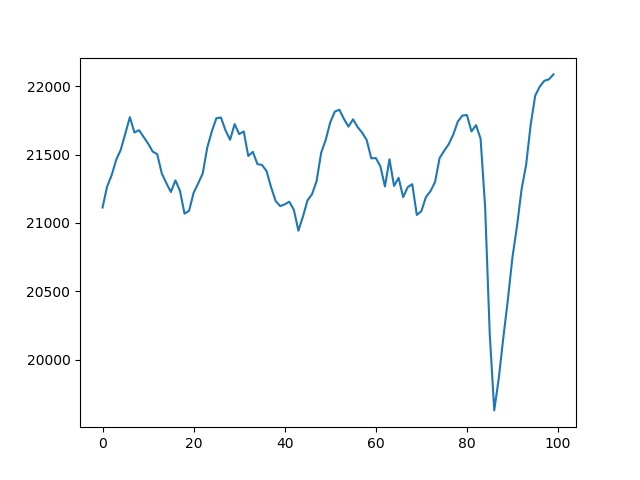
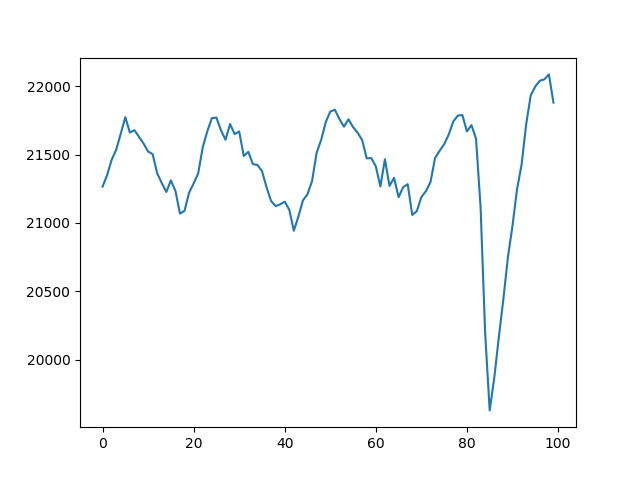
'auto'

Changed region(s): [[0.5625, 0.1562, 0.875, 0.875], [0.1562, 0.25, 0.4062, 0.4688], [0.4062, 0.2188, 0.5625, 0.5]]

diff --git a/README.md b/README.md
@@ -1,5 +1,5 @@
 Frizider live: 4
-22085.99166666667 
+21879.649999999998 
 0
 Temperatura:
 
